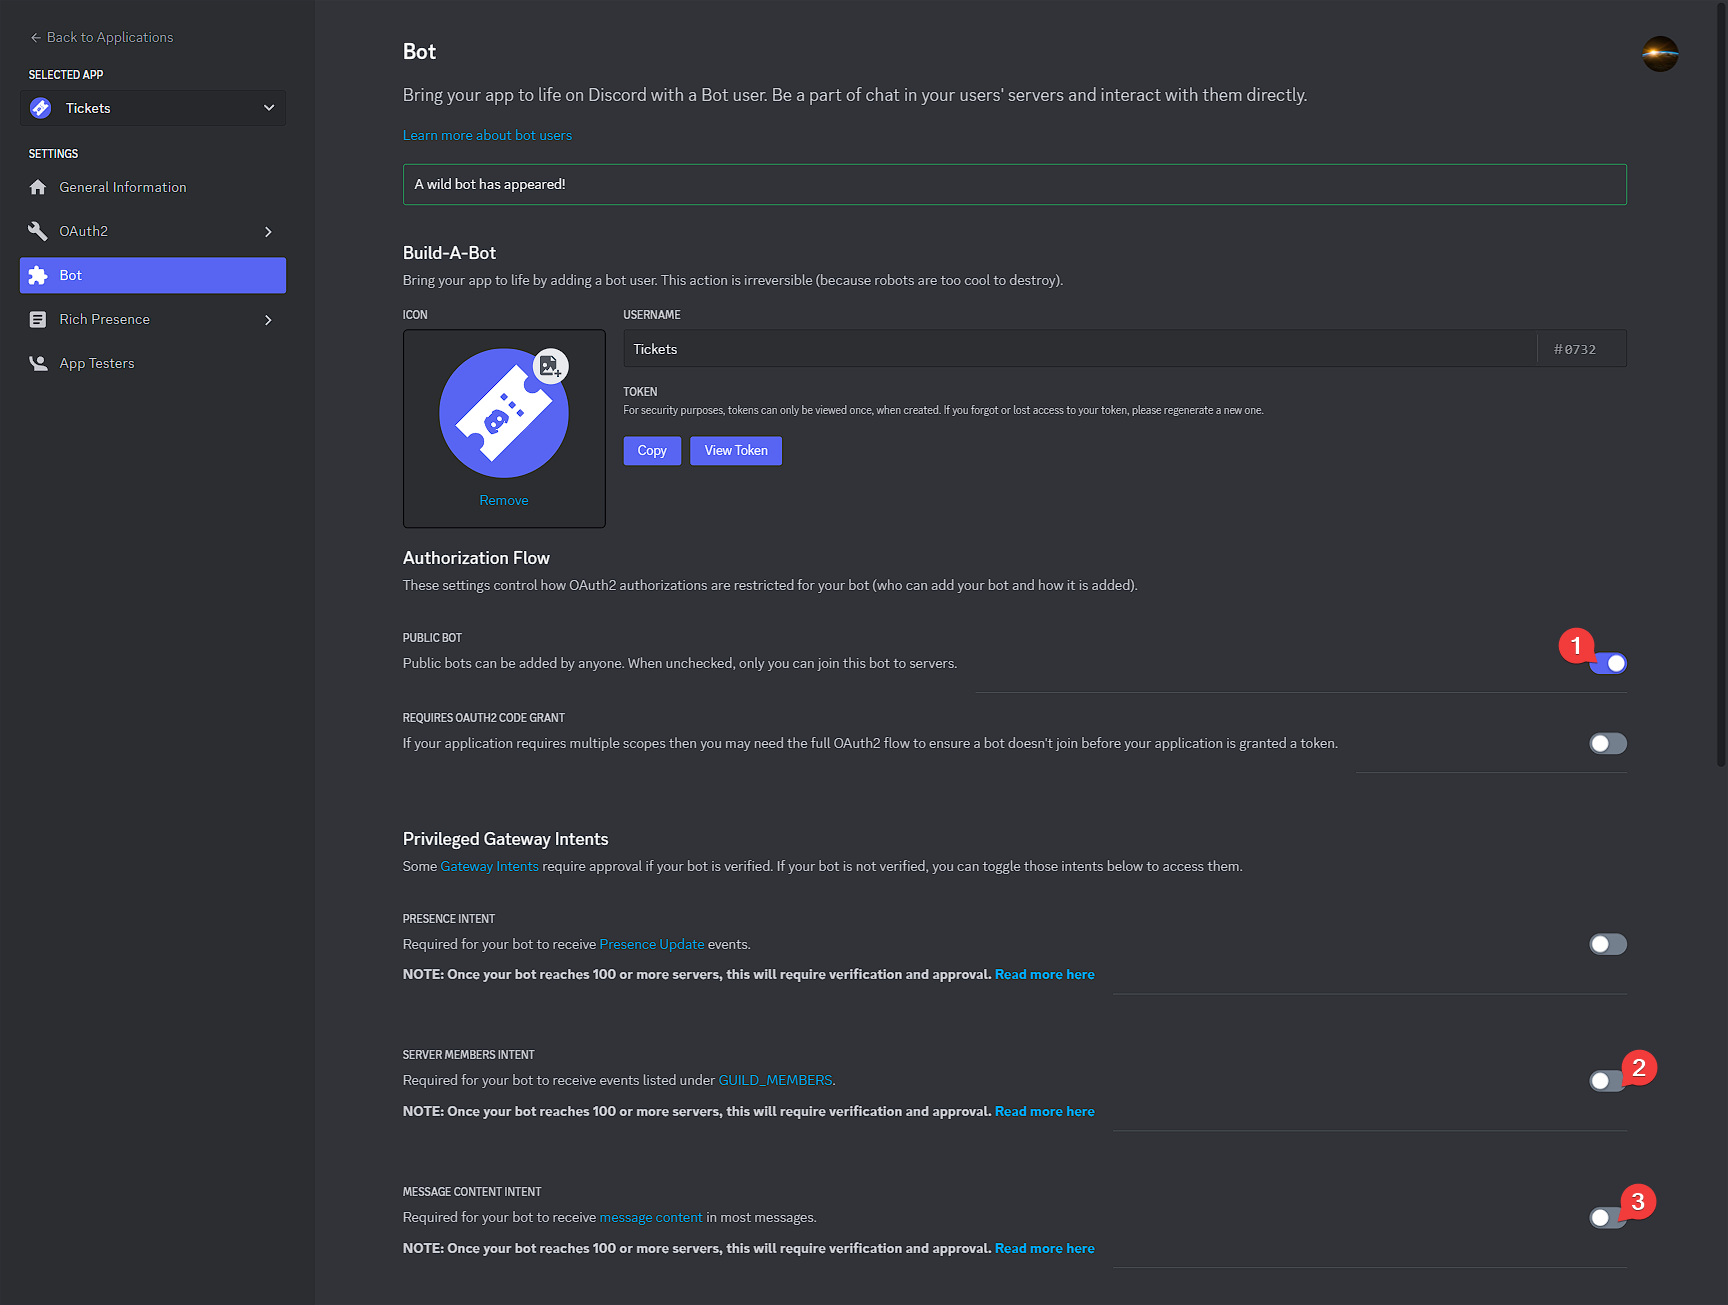
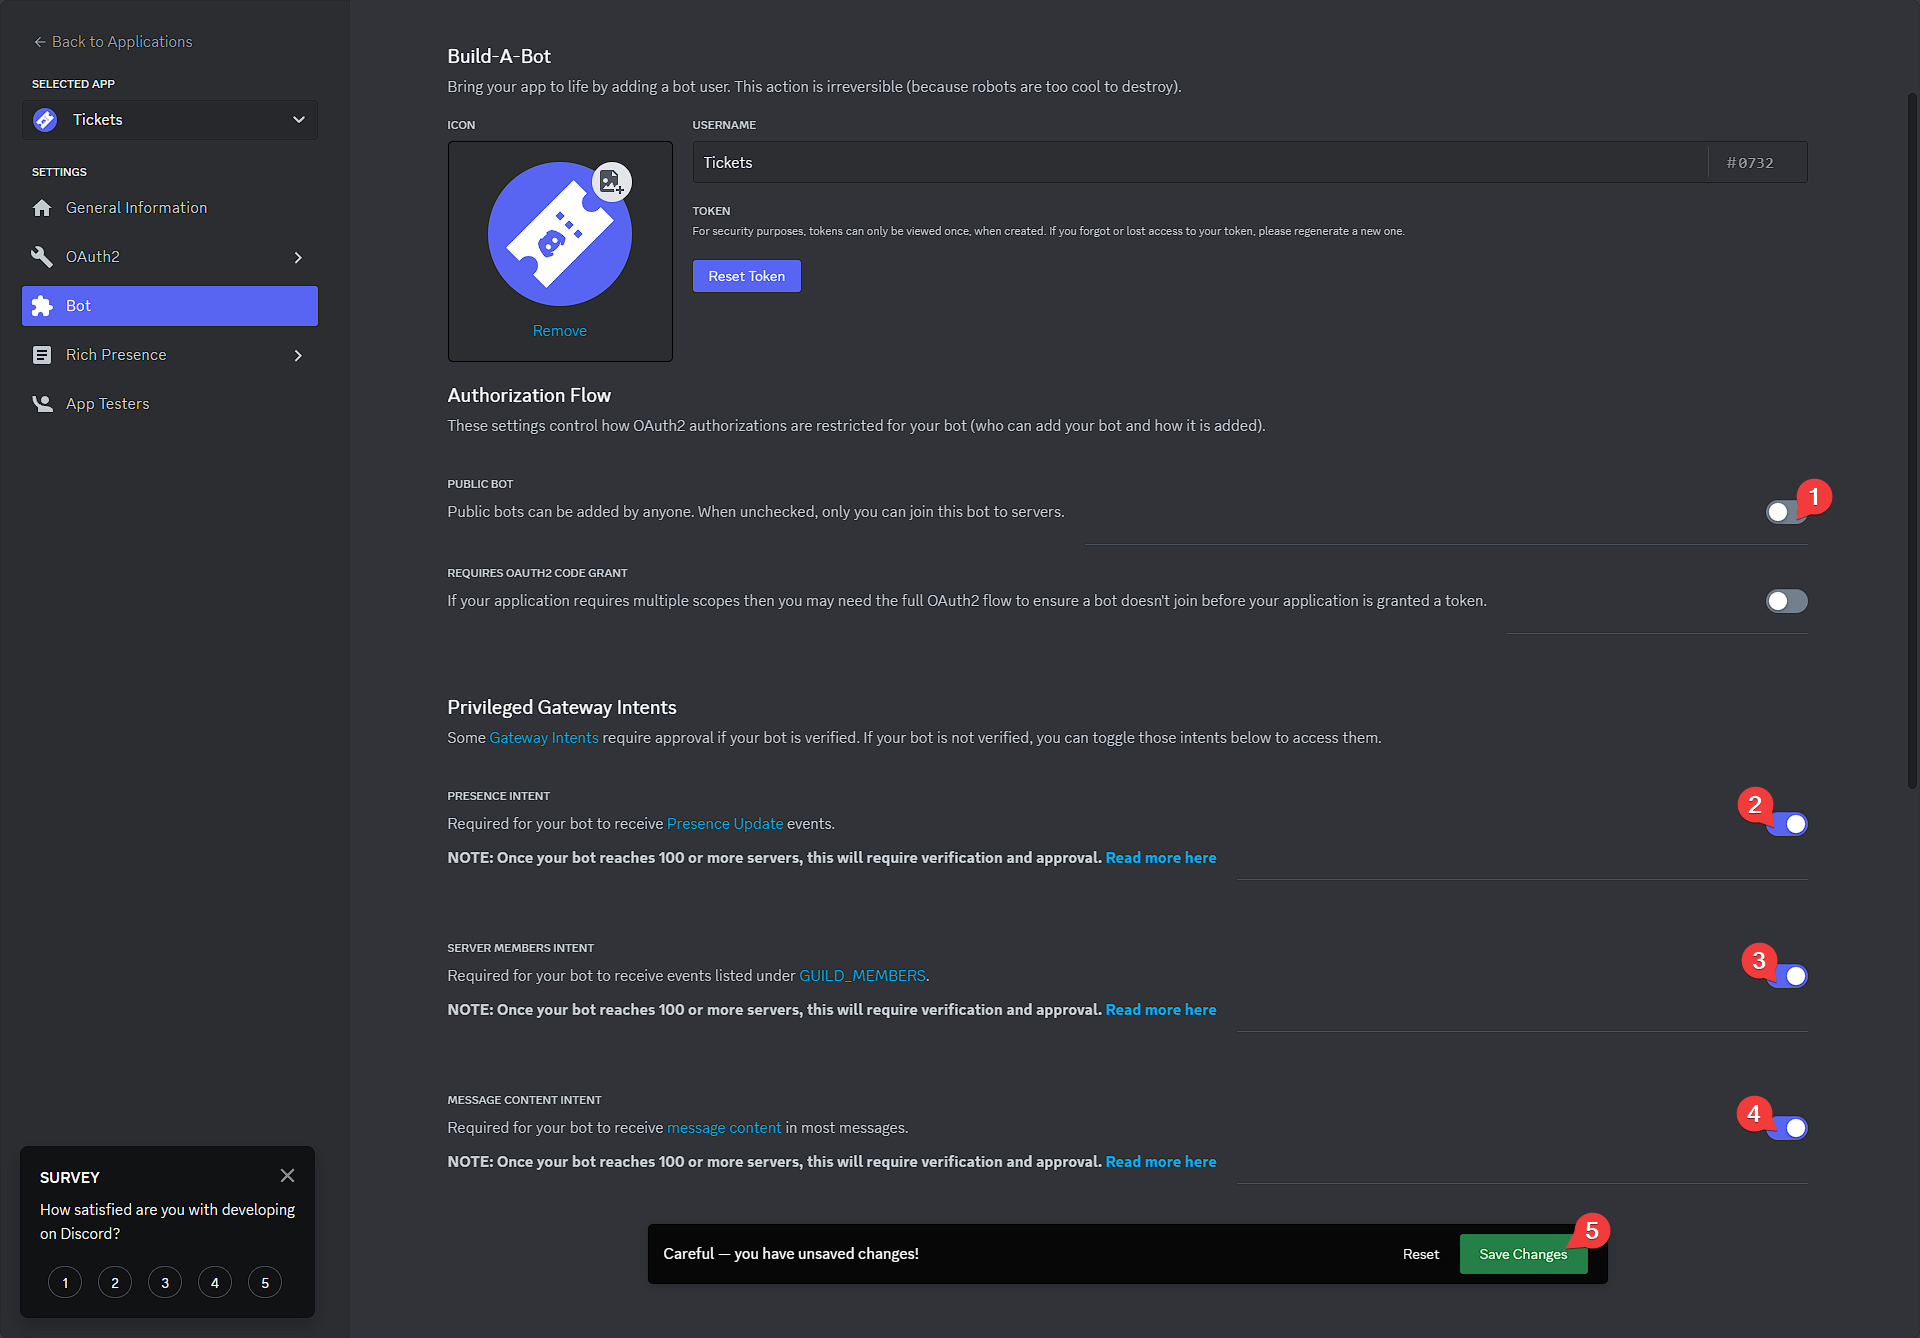
Minor fixes

diff --git a/docs/terms.md b/docs/terms.md
@@ -70,17 +70,11 @@ By using the websites, you agree to not abuse features and bugs or APIs, and not
 #### 3.1.2. StatsAPI
 
 By sending data to the StatsAPI, you agree to not knowingly send incorrect data or make excess HTTP requests in an attempt to disrupt the service, invalidate the aggregated statistics,
-inflict additional cloud usage costs or send requests with any other malicious intent. 
+inflict additional cloud usage costs or send requests with any other malicious intent.
 
 #### 3.1.3. Feedback
 
 You agree to not submit spam or repetitive ideas or comments.
-
-#### 3.1.4. Store
-
-You agree to not submit spam support requests/tickets, or fraudulent, misleading, or false feedback/ratings/reviews.
-
-See [4. Payments](#4-payments).
 
 ### 3.2. Hosted bots
 
@@ -98,7 +92,7 @@ You may not use the service in a way, intentionally or otherwise, that:
 6. includes accessing data that you are not permitted to
 7. violates (or use the service in a Discord guild that violates)
    	the [Discord Terms of Service](https://discord.com/terms) or [Discord Community Guidelines](https://discord.com/guidelines) -
-	notably:   
+	notably:
 
 	> - Do not organize, promote, or participate in hate speech or hateful conduct
 	> - Do not use Discord for the organization, promotion, or support of violent extremism
@@ -109,7 +103,7 @@ You may not use the service in a way, intentionally or otherwise, that:
 	> - Do not distribute or provide access to content involving the hacking, cracking, or distribution of stolen goods, pirated content, or accounts.
 		This includes sharing or selling game cheats or hacks.
 	> - Do not organize, promote, or engage in any illegal or dangerous behaviour
-	
+
 8. is otherwise unlawful in either your jurisdiction or the United Kingdom
 9. would be considered unfair or abusive by a reasonable person
 10. a reasonable person would deem unreasonable

diff --git a/includes/discord-application.md b/includes/discord-application.md
@@ -12,7 +12,7 @@
 
 	![Screenshot](/img/discord-application-1.png)
 3. Add a logo, description, and links to your terms of service and privacy policy, then click `Save Changes`.
-	
+
 	![Screenshot](/img/discord-application-2.png)
 4. Go to the `OAuth2` page and click `Reset Secret`, then `Yes, do it!`.
 	**Copy the new secret and set it as your `DISCORD_SECRET` environment variable.**
@@ -38,8 +38,8 @@
 7. Configure the bot
 
 	1. Optionally, disable the "public bot" option to prevent other people from adding your bot to their servers.
-	2. **Enable the `server members` and `message content` intents.**
- 
+	2. **Enable the `presence`, `server members` and `message content` intents.**
+
 	![Screenshot](/img/discord-application-6.png)
 
 Don't add the bot to your Discord server yet; you'll do that later.

diff --git a/docs/self-hosting/installation/docker.md b/docs/self-hosting/installation/docker.md
@@ -47,8 +47,7 @@ mkdir tickets-bot && cd tickets-bot
 Open `docker-compose.yml` in your preferred text editor(1) and modify the highlighted lines.
 { .annotate }
 
-1.
-  !!! example
+1. <!---->
     ```bash linenums="0"
     nano docker-compose.yml
     ```

diff --git a/docs/self-hosting/reverse-proxy.md b/docs/self-hosting/reverse-proxy.md
@@ -89,7 +89,7 @@ server {
         proxy_set_header X-Forwarded-For $proxy_add_x_forwarded_for;
 
         proxy_http_version 1.1;
-        proxy_pass http://127.0.0.1:8080;(3)
+        proxy_pass http://127.0.0.1:8169;(3)
     }
 }
 ```
